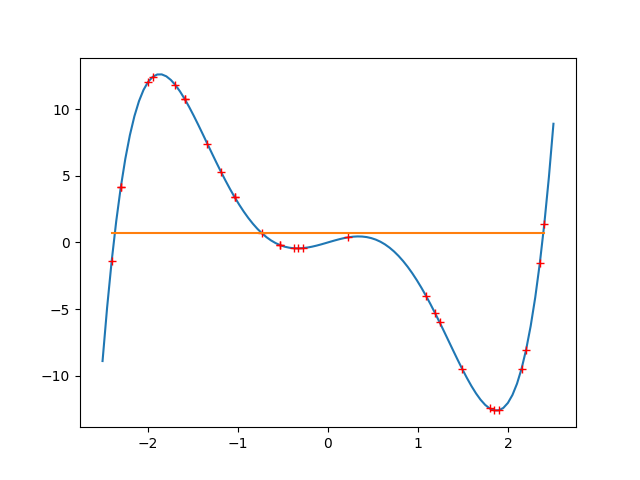
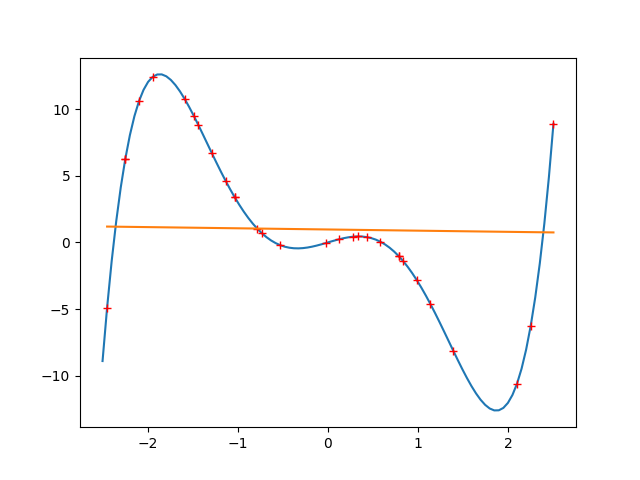
[2.3] - Optimizing & Fixing dataloader

diff --git a/fivedegree/train_model.py b/fivedegree/train_model.py
@@ -1,0 +1,35 @@
+from torch import nn
+import torch as tt
+
+from build_model import model
+from gen_data import dataloader
+from gen_data import x_sample,y_sample,x_values,y_values
+
+# - - - - -
+
+loss_function = nn.MSELoss()
+learning_rate = 5e-6
+epochs = 10
+
+# - - - - -
+
+model.train()
+
+optimizer = tt.optim.SGD(
+    model.parameters(),
+    lr=learning_rate)
+
+# - - - - -
+
+for epoch in range(epochs):
+    
+    for batch in dataloader:
+        y_target_prediction = model(batch['x'])
+        
+        difference = loss_function(y_target_prediction, batch['y'])
+        difference.backward()
+        
+        optimizer.step()
+        optimizer.zero_grad()
+
+    print(difference)

diff --git a/fivedegree/gen_data.py b/fivedegree/gen_data.py
@@ -1,3 +1,4 @@
+import torch as tt
 import random as rd
 import numpy as np
 from torch.utils.data import DataLoader, Dataset
@@ -11,8 +12,10 @@ class main_dataset(Dataset):
     def __len__(self):
         return len(self.y_sample)
     def __getitem__(self, index):
-        return {'y':self.y_sample[index].unsqueeze(dim=-1), 'x':self.x_sample[index].unsqueeze(dim=-1)}
-
+        y_val = tt.tensor(self.y_sample[index])
+        x_val = tt.tensor(self.x_sample[index])
+        return {'y':y_val.unsqueeze(dim=-1), 'x':x_val.unsqueeze(dim=-1)}
+    
 # - - - - -
 
 def sample_function(x):

diff --git a/README.md b/README.md
@@ -19,7 +19,7 @@ Now, to train our neural network, it's important to choose a few samples so as i
 
 ![s5dg](fivedegree/img/sample_5degree.png)
 
-Finally, we must initiate the class of our dataset with the previous samples and load the data using pytorch.
+Finally, we must initiate the class of our dataset with the previous samples (now as tensors of 1 dimension) and load the data using pytorch.
 
 ```
 class main_dataset(Dataset):
@@ -29,9 +29,9 @@ class main_dataset(Dataset):
     def __len__(self):
         return len(self.y_sample)
     def __getitem__(self, index):
-        return {
-            'y':self.y_sample[index].unsqueeze(dim=-1),
-            'x':self.x_sample[index].unsqueeze(dim=-1)}
+        y_val = tt.tensor(self.y_sample[index])
+        x_val = tt.tensor(self.x_sample[index])
+        return {'y':y_val.unsqueeze(dim=-1), 'x':x_val.unsqueeze(dim=-1)}
 
 data = main_dataset(x_sample,y_sample)
 dataloader = DataLoader(data, batch_size=2, shuffle=True)
@@ -94,6 +94,86 @@ As you see on the graph below: the orange line represents the results that, of c
 
 Now, our task is to train and optimize the model's parameters until it is capable of predicting the behaviour of the five degree function.
 
+## Training
+
+This is the magic part of our first example. Here the model will learn how to reproduce our five degree function.
+
+The first step is to instantiate our loss function (it acts like _"an AI model's teacher"_), set the learning rate and the number of epochs our model will go through.
+```
+loss_function = nn.MSELoss()
+learning_rate = 5e-6
+epochs = 10
+```
+Now, we will not only change our model mode to training mode, but also instantiate the optimizer (responsible for making the values obtained from the loss function useful for the model to learn).
+```
+model.train()
+
+optimizer = tt.optim.SGD(
+    model.parameters(),
+    lr=learning_rate)
+```
+Lastly, let's create the learning looping that our model will repeat for _n epochs_.
+```
+for epoch in range(epochs):
+    
+    for batch in dataloader:
+        y_target_prediction = model(batch['x'])
+        
+        difference = loss_function(y_target_prediction, batch['y'])
+        difference.backward()
+        
+        optimizer.step()
+        optimizer.zero_grad()
+
+    print(difference)
+```
+In details:
+- **for batch in dataloader:**
+When we previously defined our `__getitem__ ` function, the dictionary returned will be loaded by the model as a `batch`.
+```
+    def __getitem__(self, index):
+        y_val = tt.tensor(self.y_sample[index])
+        x_val = tt.tensor(self.x_sample[index])
+        return {'y':y_val.unsqueeze(dim=-1), 'x':x_val.unsqueeze(dim=-1)}
+```
+
+- **y_target_prediction = model(batch['x'])**
+Here, as we defined our `foward` function, the `batch['x']` values will be used to predict a `y_target_prediction` by executing the _"in linear function"_, the _ReLU function_ and the _"out linear function"_ over the _"x"_ feature.
+```
+    def forward(self,x):
+        x = (x-mean)/std
+        x1 = self.in_linear(x)
+        x_temp = self.relu(x1)
+        return self.out_linear(x_temp)
+```
+
+- **difference = loss_function(y_target_prediction, batch['y'])**
+That's the function responsible for telling our model how wrong it is, `y_target_prediction`, from the real target value `batch['y']`.
+
+- **difference.backward()**
+Most known as *retropropagation*, this function calculates all the lost function gradients in relation to the trainable weights and bias of the model, then indicates how much each parameter must be ajusted for the model to have more success.
+
+- **optimizer.step()**
+The gradients obtained previously by `difference.backward()` will be applied to the model and all parameters should be updated.
+
+- **optimizer.zero_grad()**
+Because we're going through multiple batches, we can't sum all of the gradients every loop, so we turn them all to zero after updating the parameters.
+
+- **print(difference)**
+Using this line, you can clearly see the change made by the optimizer on the tensors. The terminal should show something close to the following feedback.
+```
+    tensor(60.3679, grad_fn=<MseLossBackward0>)
+    tensor(51.5132, grad_fn=<MseLossBackward0>)
+    tensor(63.8576, grad_fn=<MseLossBackward0>)
+    tensor(20.4159, grad_fn=<MseLossBackward0>)
+    tensor(31.5784, grad_fn=<MseLossBackward0>)
+    tensor(46.8480, grad_fn=<MseLossBackward0>)
+    tensor(1.9894, grad_fn=<MseLossBackward0>)
+    tensor(1.9903, grad_fn=<MseLossBackward0>)
+    tensor(44.5663, grad_fn=<MseLossBackward0>)
+    tensor(1.9711, grad_fn=<MseLossBackward0>)
+```
+
 ## Setup Instructions
 To run the code and test the neural network model, start by cloning the github repository.
 ```
@@ -110,6 +190,7 @@ Finally, execute the following scripts.
 ```
 python ./fivedegree/gen_data.py
 python ./fivedegree/build_model.py
+python ./fivedegree/train_model.py
 ```
 
 -----
